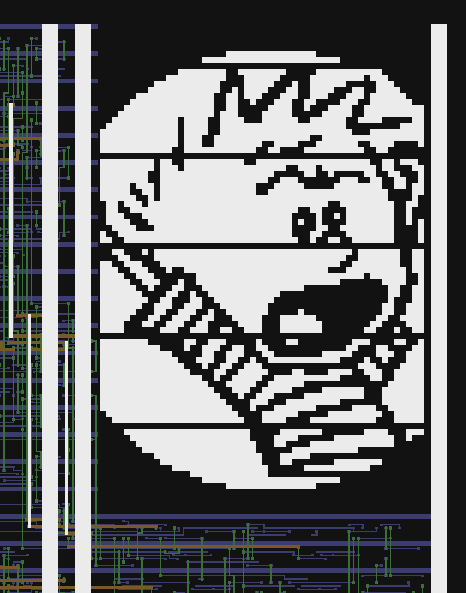
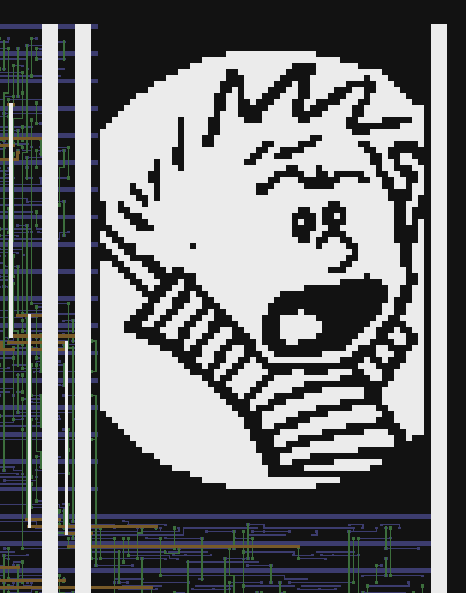
harden: calvin without the slot rows (Ken saw the five empty rows): the picture's strokes leave no white area 10 um wide both ways, the m4.11 self-check passes with no slots, and neither the precheck's KLayout deck nor the PDK's current one carries the rule - chip_art.py defaults to --slot 0; the ar

diff --git a/harden/chip_art.py b/harden/chip_art.py
@@ -6,8 +6,8 @@
 # for sky130A (met4 71/20): 2026-10-18, Ken's calvin on the LISA tile.
 #
 #   python3 chip_art.py --image art/calvin/source.gds --image-layer 50 0 \
-#       --extent 294.2 460.0 330.2 507.4 --box 296.0 460.0 328.4 507.4 \
-#       --slot 15 --out art/calvin
+#       --extent 644.2 460.0 680.2 507.4 --box 646.0 460.0 678.4 507.4 \
+#       --out art/calvin
 #
 # runs inside the LibreLane nix shell (PIL, numpy, klayout.db).  Outputs in
 # --out: <cell>.gds (met4 71/20; the cell's origin is the box's lower-left
@@ -22,9 +22,12 @@
 # area 0.24 um2 and m4.7 hole area 0.2 um2 (a pixel is 0.36), m4.5ab 0.4
 # between metal 3 um wide and anything (a gap is 0.6), and m4.11, no metal
 # that is still there after a 5 um shrink, i.e. no solid area wider than
-# 10 um in both directions: --slot N leaves every Nth pixel row of the
-# plate empty (15: solid runs of 8.4 um).  The tool re-checks all of them
-# on the merged shapes and refuses to write a cell that fails.  Magic's
+# 10 um in both directions - calvin's ink strokes see to that by
+# themselves (and neither the precheck's KLayout deck nor the PDK's
+# current one carries m4.11); for a picture that has such areas, --slot N
+# leaves every Nth pixel row empty (15: solid runs of 8.4 um).  The tool
+# re-checks all of them on the merged shapes and refuses to write a cell
+# that fails.  Magic's
 # met4.5a (what the Tiny Tapeout precheck runs) also fails where thin
 # metal leaves a convex corner of a 3 um body on both sides - the two
 # pieces of the 0.4 um band around the body meet at the corner point only -
@@ -163,7 +166,7 @@ def main():
     ap.add_argument("--mode", choices=("plate", "ink"), default="plate")
     ap.add_argument("--threshold", type=float, default=128)
     ap.add_argument("--no-disc", action="store_true", help="do not clip to the avatar's disc")
-    ap.add_argument("--slot", type=int, default=15, help="leave every Nth pixel row empty (m4.11: no solid metal wider than 10 um both ways); 0 = none")
+    ap.add_argument("--slot", type=int, default=0, help="leave every Nth pixel row empty, for a picture with solid metal wider than 10 um both ways (m4.11, which the self-check reports; calvin has none, and neither the precheck's deck nor the PDK's current one carries the rule); 0 = none")
     ap.add_argument("--cell", default="tt_um_pettit_calvin")
     ap.add_argument("--out", required=True)
     a = ap.parse_args()

diff --git a/RESPIN.md b/RESPIN.md
@@ -831,8 +831,8 @@ at each.  On the Arty at 50 MHz: hello with the cache on at 115200,
   (prism's tool for sky130A: met4 71/20, the rules of sky130A_mr.drc met
   on a 0.6 um pixel grid - m4.1/m4.2 width and spacing 0.3, m4.4a area
   0.24, m4.7 holes 0.2, m4.5ab 0.4 to 3 um wide metal, and m4.11, no solid
-  metal wider than 10 um both ways, so every 15th pixel row of the plate
-  is a slot - re-checked on the merged shapes) re-grids prism's hand-edited
+  metal wider than 10 um both ways, which calvin's ink strokes meet by
+  themselves - re-checked on the merged shapes) re-grids prism's hand-edited
   cell (`harden/art/calvin/source.gds`) onto the 54 x 79 pixel box that
   fits the channel between a PDN stripe pair and the next (32.4 x 47.4 um).
   As in prism the picture sits on bare oxide (Ken: that is what makes it
@@ -876,7 +876,14 @@ at each.  On the Arty at 50 MHz: hello with the cache on at 115200,
   Tiny Tapeout precheck run locally on it (tt-support-tools/precheck:
   Magic DRC, KLayout FEOL / BEOL / offgrid / zero-area / pin-label,
   the pin, boundary, power-pin, layer, cell-name and nwell checks)
-  passes.  Not promoted: gds/ is rc3's until Ken says so.
+  passes.  Ken saw five empty rows across the picture: the slots I had
+  cut for m4.11 (every 15th pixel row).  The picture needs none - its
+  strokes leave no white area 10 um wide both ways, the self-check
+  agreed with no slots, and neither the precheck's KLayout deck nor the
+  PDK's current one carries the rule - so the art is regenerated without
+  them (910 um2 of met4, Magic DRC of the cell 0) and the run's tail
+  (Project.ChipArt on) redone.  Not promoted: gds/ is rc3's until Ken
+  says so.
 * Found on the way: Yosys names a flattened net after any alias (the
   debugger's data bus is `core_inst_o[*]` in the netlist), the breakpoint
   registers are latches, and OpenSTA's `read_sdc` fails on an exception
